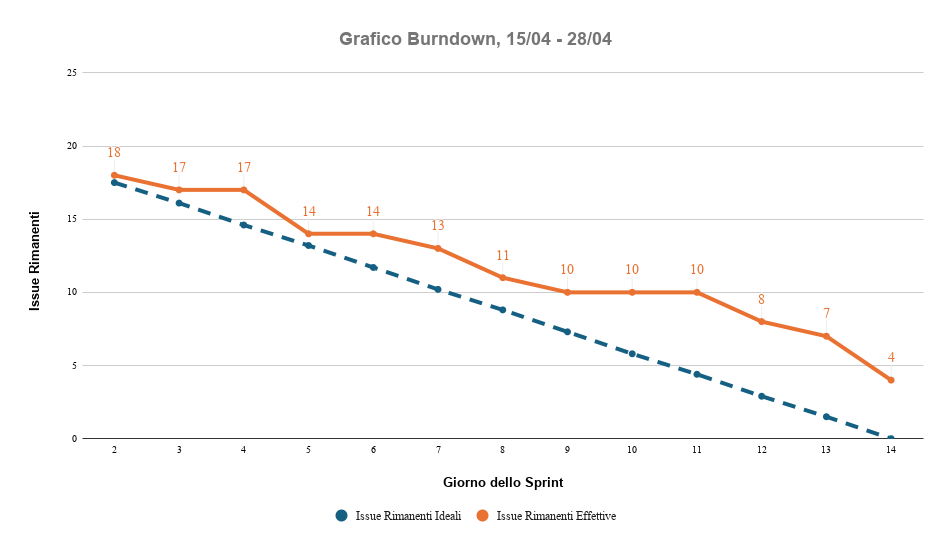
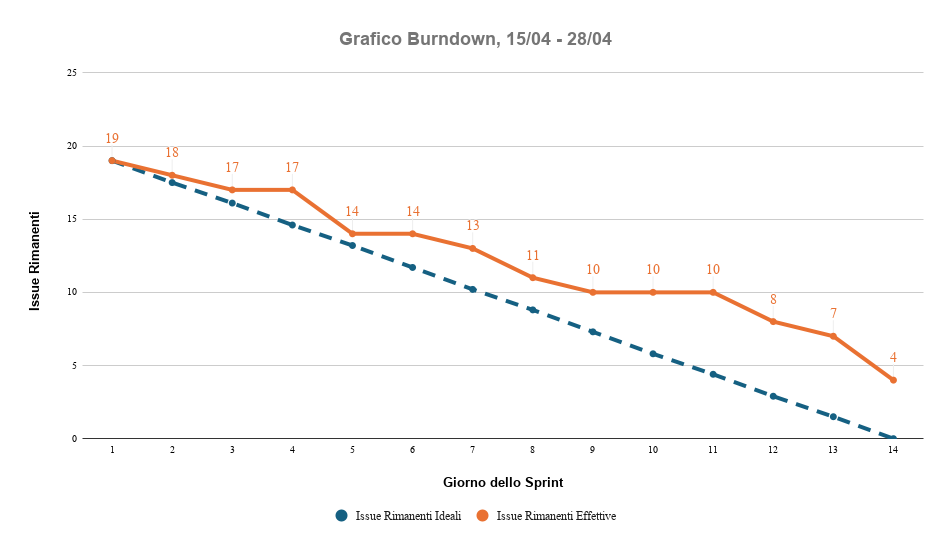
consuntivo sprint 10 preventivo sprint 11

diff --git a/Documentazione/LaTeX/Piano di Progetto/Piano di Progetto.tex b/Documentazione/LaTeX/Piano di Progetto/Piano di Progetto.tex
@@ -72,7 +72,7 @@
         \renewcommand{\arraystretch}{1.5}
         \begin{tabularx}{\textwidth}{|l|X|}
             \hline
-            \textbf{Versione} & \textit{0.11.0} \\ \hline
+            \textbf{Versione} & \textit{0.13.0} \\ \hline
     
             \textbf{Uso} & \textit{Esterno} \\ \hline
             \textbf{Destinatari} & \textit{Prof. Tullio Vardanega, Prof. Riccardo Cardin} \\ \hline
@@ -101,6 +101,7 @@
     \begin{tabularx}{\textwidth}{|c|c|X|l|l|}
         \hline
         \textbf{Ver.} & \textbf{Data} & \textbf{Descrizione} & \textbf{Autore} & \textbf{Verificatore} \\ \hline
+        0.13.0 & 2026/07/25 & Scrittura \textit{consuntivo} \textit{sprint} 10 e \textit{preventivo} \textit{sprint} 11 & Dario Pirrone &  \\ \hline
         0.12.0 & 2026/07/25 & Scrittura \textit{consuntivo} \textit{sprint} 9 e \textit{preventivo} \textit{sprint} 10 & Sara Ristovic & Edoardo Granziero \\ \hline
         0.11.0 & 2026/07/17 & Scrittura \textit{consuntivo} \textit{sprint} 8 e \textit{preventivo} \textit{sprint} 9 & Marco Barbiero & Dario Pirrone \\ \hline
         0.10.0 & 2026/07/09 & Scrittura \textit{consuntivo} \textit{sprint} 7 e \textit{preventivo} \textit{sprint} 8 & Sara Ristovic & Dario Pirrone \\ \hline
@@ -2115,7 +2116,8 @@ Le risorse economiche previste per lo \textit{sprint} sono:
     \renewcommand{\arraystretch}{1.3}
     \begin{tabularx}{0.95\textwidth}{|X|c|c|c|c|c|c|c|}
         \hline
-        \textbf{\textit{Sprint} 9} & \textbf{RE} & \textbf{AM} & \textbf{AN} &
+        \textbf{\textit{Sprint} 9} & \multicolumn{6}{|c|}{\textbf{Ruolo}} & \\ \hline
+        \textbf{Membro} & \textbf{RE} & \textbf{AM} & \textbf{AN} &
         \textbf{PG} & \textbf{PR} & \textbf{VE} & \textbf{Totale} \\ \hline
         Andrea Fistarol & & & & & & 4 & \textbf{4} \\ \hline
         Dario Pirrone & & & & & & 3 (-4) & \textbf{3} \\ \hline
@@ -2124,7 +2126,7 @@ Le risorse economiche previste per lo \textit{sprint} sono:
         Samuele Bertin & & & & & & 2 (-4) & \textbf{2} \\ \hline
         Sara Ristovic & & 2 (-2) & & & & & \textbf{2} \\ \hline
         \textbf{Ore totali per ruolo} & \textbf{3} & \textbf{2} &
-        \textbf{0} & \textbf{0} & \textbf{1} & \textbf{9} & \textbf{15}\\ \hline
+        \textbf{0} & \textbf{0} & \textbf{1} & \textbf{9} & \textbf{15 (-13)}\\ \hline
     \end{tabularx}
     \caption{\textit{Consuntivo} orario - \textit{sprint} 9}
 \end{table}
@@ -2158,10 +2160,10 @@ Le risorse economiche utilizzate durante lo \textit{sprint} sono:
 
 \paragraph{Analisi dei rischi occorsi}
 \begin{itemize}
-     \item \textbf{Semaforo rosso all'\textbf{RTB}:} Il gruppo non ha superato la revisione \textbf{RTB} con il Prof. Cardin e, di conseguenza, ha dovuto fermarsi e procedere con il miglioramento del \textit{PoC}. Questo ha prodotto un ritardo inatteso nell'avanzamento del progetto.
+     \item \textbf{Semaforo rosso all'\textbf{RTB}:} Il gruppo non ha superato la revisione \textbf{RTB} con il Prof. Cardin e, di conseguenza, ha dovuto fermarsi e procedere con il miglioramento del \textbf{PoC}. Questo ha prodotto un ritardo inatteso nell'avanzamento del progetto.
 \end{itemize}
 
-\paragraph{\textit{Retrospettiva}} Poiché lo \textit{Sprint} è stato chiuso in anticipo, molti compiti non sono stati completati e sono stati temporaneamente sospesi o rinviati. Saranno completati quando i problemi individuati nel \textit{PoC} saranno stati risolti.
+\paragraph{\textit{Retrospettiva}} Poiché lo \textit{Sprint} è stato chiuso in anticipo, molti compiti non sono stati completati e sono stati temporaneamente sospesi o rinviati. Saranno completati quando i problemi individuati nel \textbf{PoC} saranno stati risolti.
 
 \paragraph{Migliorie per lo \textit{Sprint} 10}
 \begin{itemize}
@@ -2169,20 +2171,20 @@ Le risorse economiche utilizzate durante lo \textit{sprint} sono:
 \end{itemize}
 
 
-\subsubsection{\textit{Sprint} 10: 23/07/2026 - 03/08/2026}
+\subsubsection{\textit{Sprint} 10: 23/07/2026 - 04/08/2026}
 
 \paragraph{Obiettivi e attività}
 
 Le attività previste per il decimo \textit{sprint}, ordinate in base alla priorità, sono le seguenti:
 
 \begin{itemize}
-    \item riprogettazione del \textit{PoC}, in modo da incorporare il maggior numero possibile delle tecnologie scelte
-    \item codifica delle componenti nuove del \textit{PoC}
+    \item riprogettazione del \textbf{PoC}, in modo da incorporare il maggior numero possibile delle tecnologie scelte
+    \item codifica delle componenti nuove del \textbf{PoC}
 \end{itemize}
 
 \paragraph{\textit{Preventivo} orario ed economico}
 
-I ruoli assegnati sono: \textbf{Responsabile}, \textbf{Amministratore}, \textbf{Progettista}, \textbf{Programmatore} e \textbf{Verificatore}.
+I ruoli assegnati sono: \textbf{Responsabile}, \textbf{Amministratore}, \textbf{Progettista}, \textbf{Programmatore} e \textbf{Verificatore}. In questo \textit{sprint} si sperimenta per la prima volta l'assegnazione di più ruoli allo stesso membro del gruppo.
 \begin{table}[H]
     \centering
     \renewcommand{\arraystretch}{1.3}
@@ -2191,14 +2193,14 @@ I ruoli assegnati sono: \textbf{Responsabile}, \textbf{Amministratore}, \textbf{
         \textbf{\textit{Sprint} 10} & \multicolumn{6}{|c|}{\textbf{Ruolo}} & \\ \hline
         \textbf{Membro} & \textbf{RE} & \textbf{AM} & \textbf{AN} &
         \textbf{PG} & \textbf{PR} & \textbf{VE} & \textbf{Totale} \\ \hline
-        Andrea Fistarol & & & & & 0 & & \textbf{} \\ \hline
-        Dario Pirrone & & & & & 0 & & \textbf{} \\ \hline
-        Edoardo Granziero & & 0 & & & & 0 & \textbf{} \\ \hline
-        Marco Barbiero & & & & 0 & & & \textbf{} \\ \hline
-        Samuele Bertin & & & & 0 & & & \textbf{} \\ \hline
-        Sara Ristovic & 0 & & & & & 0 & \textbf{} \\ \hline
-        \textbf{Ore totali per ruolo} & \textbf{} & \textbf{} &
-        \textbf{} & \textbf{} & \textbf{} & \textbf{} & \textbf{}\\ \hline
+        Andrea Fistarol & & & & & 9 & & \textbf{9} \\ \hline
+        Dario Pirrone & & & & & 13 & & \textbf{13} \\ \hline
+        Edoardo Granziero & & 1 & & & & 3 & \textbf{4} \\ \hline
+        Marco Barbiero & & & & 8 & & & \textbf{8} \\ \hline
+        Samuele Bertin & & & & 10 & & & \textbf{10} \\ \hline
+        Sara Ristovic & 1 & & & & & 5 & \textbf{6} \\ \hline
+        \textbf{Ore totali per ruolo} & \textbf{1} & \textbf{1} &
+        \textbf{0} & \textbf{18} & \textbf{22} & \textbf{8} & \textbf{50}\\ \hline
     \end{tabularx}
     \caption{\textit{Preventivo} orario - \textit{sprint} 10}
 \end{table}
@@ -2215,9 +2217,130 @@ Le risorse economiche previste per lo \textit{sprint} sono:
         \textbf{Costo orario} & \EUR{30} & \EUR{20} & \EUR{25} & \EUR{25} & \EUR{15}
      
         & \EUR{15} & / \\ \hline
-        \textbf{Costo totale} & \EUR{} & \EUR{} & \EUR{} & \EUR{} & \EUR{} & \EUR{} & \textbf{\EUR{}} \\ \hline
+        \textbf{Costo totale} & \EUR{30} & \EUR{20} & \EUR{0} & \EUR{450} & \EUR{330} & \EUR{120} & \textbf{\EUR{950}} \\ \hline
     \end{tabularx}
     \caption{\textit{Preventivo} economico - \textit{sprint} 10}
+\end{table}
+
+
+\paragraph{\textit{Consuntivo}}
+È risultato un consumo orario complessivo lievemente inferiore a quanto preventivato, in genrale con meno ore spese nel ruolo di \textbf{Verificatore} e lievemente di più per il ruolo di \textbf{Programmatore}.
+
+\begin{table}[H]
+    \centering
+    \renewcommand{\arraystretch}{1.3}
+    \begin{tabularx}{0.95\textwidth}{|X|c|c|c|c|c|c|c|}
+        \hline
+        \textbf{\textit{Sprint} 10} & \multicolumn{6}{|c|}{\textbf{Ruolo}} & \\ \hline
+        \textbf{Membro} & \textbf{RE} & \textbf{AM} & \textbf{AN} &
+        \textbf{PG} & \textbf{PR} & \textbf{VE} & \textbf{Totale} \\ \hline
+        Andrea Fistarol & & & & & 8 (-1) & & \textbf{8} \\ \hline
+        Dario Pirrone & & & & & 16 (+3) & & \textbf{16} \\ \hline
+        Edoardo Granziero & & 0 (-1) & & & & 2 (-1) & \textbf{2} \\ \hline
+        Marco Barbiero & & & & 8 & & & \textbf{8} \\ \hline
+        Samuele Bertin & & & & 10 & & & \textbf{10} \\ \hline
+        Sara Ristovic & 1 & & & & & 3 (-2) & \textbf{4} \\ \hline
+        \textbf{Ore totali per ruolo} & \textbf{1} & \textbf{0} &
+        \textbf{0} & \textbf{18} & \textbf{24} & \textbf{5} & \textbf{48 (-2)}\\ \hline
+    \end{tabularx}
+    \caption{\textit{Consuntivo} orario - \textit{sprint} 10}
+\end{table}
+
+Le risorse economiche utilizzate durante lo \textit{sprint} sono:
+
+\begin{table}[H]
+    \centerline{
+        \centering
+        \renewcommand{\arraystretch}{1.3}
+        \begin{tabularx}{1.09\textwidth}{|X|c|c|c|c|c|c|c|}
+            \hline
+            \textbf{\textit{Sprint} 10} & \textbf{RE} & \textbf{AM} & \textbf{AN} &
+            \textbf{PG} & \textbf{PR} & \textbf{VE} & \textbf{Totale} \\ \hline
+  
+            \textbf{Costo orario} & \EUR{30} & \EUR{20} & \EUR{25} & \EUR{25} & \EUR{15}
+            & \EUR{15} & / \\ \hline
+            \textbf{Costo totale} & \EUR{30} & \EUR{0} & \EUR{0} & \EUR{450} & \EUR{360} & \EUR{75} & \textbf{\EUR{915}} \\ \hline
+            \textbf{Saldo a fine \textit{sprint}} & \textbf{\EUR{510}} & \textbf{\EUR{180}} & \textbf{\EUR{-150}} & \textbf{\EUR{1.775}} & \textbf{\EUR{1.395}} & \textbf{\EUR{1.425}} & \textbf{\EUR{5.135}}\\ \hline
+        \end{tabularx}
+    }
+    \caption{\textit{Consuntivo} economico - \textit{sprint} 10}
+\end{table}
+
+\begin{figure}[H]
+  \centering
+    \includegraphics[width=0.9\textwidth]{grafici/burndown_sprint10.png}
+    \caption{\textit{Grafico Burndown} - \textit{sprint} 10}
+    \label{fig:burndown-sprint10}
+\end{figure}
+
+\paragraph{Analisi dei rischi occorsi}
+\begin{itemize}
+    \item \textbf{Scarsa Pianificazione (RO1) e Comunicazione Interna Inefficace (RO2):} Durante lo svolgimento dello \textit{sprint}, l'organizzazione iniziale ha visto impegnati a pieno regime solo i membri assegnati ai ruoli di progettazione e poi di codifica, lasciando il resto del gruppo con compiti minimi da svolgere in quei giorni. Questa mancanza di pianificazione trasversale e di comunicazione ha portato all'accumulo di ritardi sul lungo termine, seppure minimi.
+\end{itemize}
+
+\paragraph{\textit{Retrospettiva}} Lo \textit{sprint} si è concluso positivamente per quanto riguarda le tempistiche, chiudendo nei tempi previsti tutte le \textit{issue}. L'obiettivo principale è stato raggiunto con l'ultimazione del nuovo \textbf{Proof of Concept} (\textbf{PoC}), sebbene si siano evidenziate nuovamente delle lacune organizzative interne che andranno corrette immediatamente.
+
+\paragraph{Cosa ha funzionato:}
+\begin{itemize}
+    \item \textbf{Solidità del nuovo PoC:} Nonostante le difficoltà organizzative, il team è  soddisfatto del \textbf{PoC} realizzato. Il lavoro svolto non andrà perso, ma rappresenterà una solida base di partenza per lo sviluppo del \textbf{Minimum Viable Product} (\textbf{MVP}), permettendo di riciclare diverso codice senza la necessità di ripartire da capo.
+\end{itemize}
+
+\paragraph{Migliorie per lo \textit{Sprint} 11}
+\begin{itemize}
+    \item \textbf{Maggiore comunicazione e flessibilità:} È fondamentale incrementare la comunicazione all'interno del gruppo e la flessibilità a cambiamenti improvvisi. Per evitare il ripresentarsi dei rischi (\textbf{RO1} e \textbf{RO2}), si è deciso di stabilirsi su \textit{sprint} di durata breve e flessibile alle necessità del momento; questo approccio aiuta a mantenere un contatto più costante tra i membri e a ripartire il carico di lavoro in modo più dinamico.
+\end{itemize}
+
+
+\subsubsection{\textit{Sprint} 11: 05/08/2026 - 07/08/2026}
+
+\paragraph{Obiettivi e attività}
+
+Questo \textit{sprint} sarà particolarmente corto e verticalmente incentrato sulla chiusura dei lavori in vista della revisione \textbf{RTB}. Le attività previste, ordinate in base alla priorità, sono le seguenti:
+
+\begin{itemize}
+    \item Preparazione e svolgimento dell'incontro di dimostrazione del \textbf{PoC} con il Prof. Cardin
+    \item Ripresa e completamento delle \textit{issue} di verifica e correzione lasciate nel \textit{backlog} dallo \textit{sprint} 9, interrotto prematuramente (su \textbf{Glossario}, \textbf{NdP}, \textbf{PdQ} e \textbf{PdP})
+    \item Aggiornamento del sito e stesura della lettera di candidatura per la revisione \textbf{RTB} con il Prof. Tullio
+\end{itemize}
+
+\paragraph{\textit{Preventivo} orario ed economico}
+
+I ruoli assegnati per questo breve \textit{sprint} conclusivo sono: \textbf{Responsabile}, \textbf{Amministratore} e \textbf{Verificatore}. Essendo uno \textit{sprint} di rifinitura e correzione documenti, non sono previste ore per i ruoli di Analista, Progettista e Programmatore.
+
+\begin{table}[H]
+    \centering
+    \renewcommand{\arraystretch}{1.3}
+    \begin{tabularx}{0.9\textwidth}{|X|c|c|c|c|c|c|c|}
+        \hline
+        \textbf{\textit{Sprint} 11} & \multicolumn{6}{|c|}{\textbf{Ruolo}} & \\ \hline
+        \textbf{Membro} & \textbf{RE} & \textbf{AM} & \textbf{AN} &
+        \textbf{PG} & \textbf{PR} & \textbf{VE} & \textbf{Totale} \\ \hline
+        Andrea Fistarol & & & & & & 0 & \textbf{} \\ \hline
+        Dario Pirrone & 2 & & & & & & \textbf{2} \\ \hline
+        Edoardo Granziero & & & & & & 0 & \textbf{} \\ \hline
+        Marco Barbiero & & 0 & & & & & \textbf{} \\ \hline
+        Samuele Bertin & & & & & & 0 & \textbf{} \\ \hline
+        Sara Ristovic & & & & & & 0 & \textbf{} \\ \hline
+        \textbf{Ore totali per ruolo} & \textbf{} & \textbf{} &
+        \textbf{0} & \textbf{0} & \textbf{0} & \textbf{} & \textbf{}\\ \hline
+    \end{tabularx}
+    \caption{\textit{Preventivo} orario - \textit{sprint} 11}
+\end{table}
+
+Le risorse economiche previste per lo \textit{sprint} sono:
+
+\begin{table}[H]
+    \centering
+    \renewcommand{\arraystretch}{1.3}
+    \begin{tabularx}{0.9\textwidth}{|X|c|c|c|c|c|c|c|}
+        \hline
+        \textbf{\textit{Sprint} 11} & \textbf{RE} & \textbf{AM} & \textbf{AN} &
+        \textbf{PG} & \textbf{PR} & \textbf{VE} & \textbf{Totale} \\ \hline
+        \textbf{Costo orario} & \EUR{30} & \EUR{20} & \EUR{25} & \EUR{25} & \EUR{15}
+        & \EUR{15} & / \\ \hline
+        \textbf{Costo totale} & \EUR{0} & \EUR{0} & \EUR{0} & \EUR{0} & \EUR{0} & \EUR{0} & \textbf{\EUR{0}} \\ \hline
+    \end{tabularx}
+    \caption{\textit{Preventivo} economico - \textit{sprint} 11}
 \end{table}
 
 \end{document}
